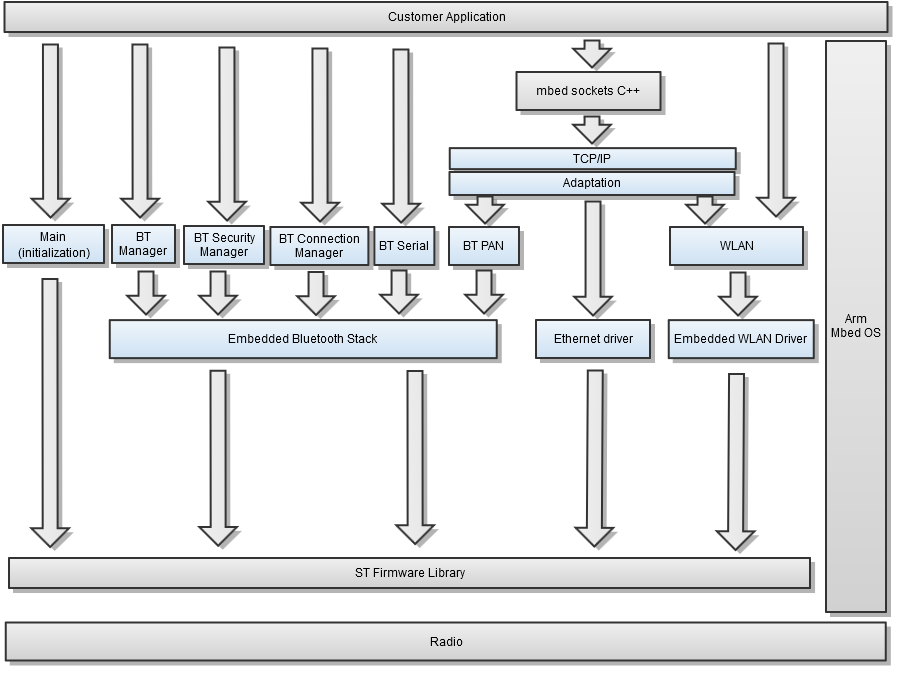
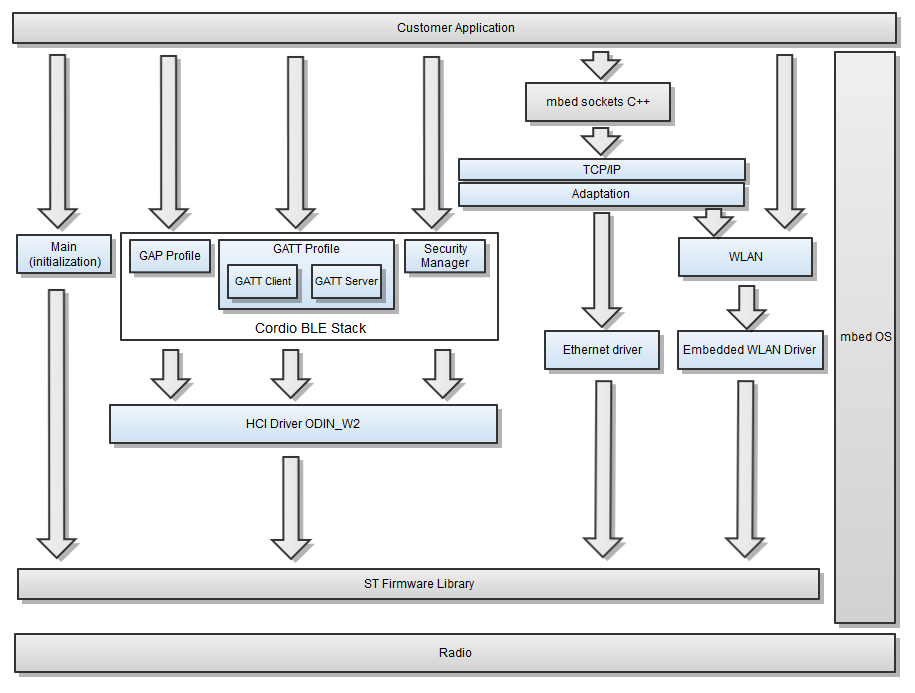
updating docs according to BLE cordio and restructuring flash memory configuraiton

Changed region(s): [[0.0, 0.0, 0.9857, 0.9882]]

diff --git a/README.md b/README.md
@@ -1,23 +1,27 @@
 # u-blox ODIN-W2 Wi-Fi and Bluetooth drivers
 
-This is a pre-compiled binary module including u-blox Wi-Fi and Bluetooth drivers for [Arm Mbed OS](https://mbed.com).
+This is a pre-compiled binary module including u-blox Wi-Fi and BLE hci drivers for [Arm Mbed OS](https://mbed.com).
 
 The binary is intended for and can only be run on a u-blox ODIN-W2 module.
 
 Please note that this document is not intended as a complete system description. It is intended to be an overview and for details the header files must be used.
 
-There are two levels of the API, one C++ API and one lower level C API. It is highly recommended to use the C++ interface as this is the intended way Arm Mbed should be used. The C API is provided to be able to support the Mbed C++ classes and might be used by the application until such classes exist. Currently there is support for the Wi-Fi station via the OdinWiFiInterface class.
+There are two levels of the API, one C++ API and one lower level C API for WIFI. It is highly recommended to use the C++ interface as this is the intended way Arm Mbed should be used. The C API is provided to be able to support the Mbed C++ classes and might be used by the application until such classes exist. Currently there is support for the Wi-Fi station and access point  via the OdinWiFiInterface class.
 
 If the C API is used please note that this interface is subject to change and it is highly recommended to migrate to the C++ API once it is available. The C API is considered as experimental.
+
+Cordio BLE stack by Arm is supported and it provides C++ API. For details see [Cordio BLE](https://os.mbed.com/docs/latest/apis/ble.html).
 
 ## Related documents
 [https://www.u-blox.com/sites/default/files/ODIN-W2_DataSheet_%28UBX-14039949%29.pdf](https://www.u-blox.com/sites/default/files/ODIN-W2_DataSheet_%28UBX-14039949%29.pdf) - ODIN-W2 Data Sheet  
 
 ## Overview
 
-The ODIN-W2 module supports a variety of interfaces such as WLAN, Classic Bluetooth, Bluetooth low energy, RMII (Ethernet), SPI, UART, CAN, I2C, GPIOs, Analog input pins, and JTAG/SWD. Many of the interfaces and IO pins are multiplexed. For details see the [ODIN-W2 Data Sheet](https://www.u-blox.com/sites/default/files/ODIN-W2_DataSheet_%28UBX-14039949%29.pdf).
+The ODIN-W2 module supports a variety of interfaces such as WLAN, BLE(Bluetooth low energy), RMII (Ethernet), SPI, UART, CAN, I2C, GPIOs, Analog input pins, and JTAG/SWD. Many of the interfaces and IO pins are multiplexed. For details see the [ODIN-W2 Data Sheet](https://www.u-blox.com/sites/default/files/ODIN-W2_DataSheet_%28UBX-14039949%29.pdf).
 
-The embedded Bluetooth Stack and the embedded WLAN driver are optimized for small embedded industrial systems with high requirements on performance and robustness. The Bluetooth stack contains the classic SPP, DUN, PAN, DID and GAP profiles and the low energy GATT, GAP and u-blox Serial Port Service. The Wi-Fi driver contains station as well as access point. A supplicant is also included.
+The embedded WLAN driver is optimized for small embedded industrial systems with high requirements on performance and robustness. The Wi-Fi driver contains station as well as access point. A supplicant is also included.
+
+Cordio BLE stack contains GAP profiles, GATT profiles, and security manager services. GATT profile allows both client and server role for device. A list of supported GATT services is provided [here](https://os.mbed.com/teams/Bluetooth-Low-Energy/wiki/BLE-services-supported-on-mbed).
 
 The drivers for the C API are not thread safe. This means that all calls to and from the drivers must be serialized to ensure that there are never more than one concurrent entry point called in the drivers. This can be achieved by posting function calls to the driver thread with 'cbMAIN_getEventQueue()->call()'. It's also possible to use the driver lock 'cbMAIN_driverLock()' to ensure mutual exclusion before any call to the drivers. 'cbMAIN_driverUnlock()' must be called after the function to release the driver thread lock.
 Notes:
@@ -36,21 +40,8 @@ The exported components and corresponding files in the u-blox ODIN-W2 driver is 
 - cb\_watchdog.h - Hardware watchdog
 - cb\_otp.h - Read One-Time Programmable(OTP) parameters like MAC addresses. 
 
-### Bluetooth
-- **BT Manager**(cb\_bt\_man.h) - Bluetooth Generic Access Profile(GAP) functionality like inquiry, device name etc
-- **BT Connection Manager**(cb\_bt\_conn\_man.h) - Setting up and tearing down Bluetooth SPP/PAN/DUN connections
-- **BT Security Manager**(cb\_bt\_sec\_man.h) - Security manager that handles pairing and link keys.
-- **BT PAN**(cb\_bt\_pan.h) - Personal Area Network Profile(PAN) for sending Ethernet frames over Classic Bluetooth
-- **BT Serial**(cb\_bt\_serial.h) - Serial Port Profile(SPP) based on RFCOMM for sending and receiving transparent data. Also supports Dial-Up Network(DUN).
-- **BT Serial low energy**(cb\_bt\_serial\_le.h) - u-blox Serial Port Service for sending and receiving transparent data.
-- cb\_gatt.h - Common GATT for low energy functionality
-- cb\_gatt\_client.h - GATT client functionality, typically used by a central
-- cb\_gatt\_server.h - GATT server functionality, typically used by a peripheral
-- cb\_gatt\_utils.h - Utility functions for GATT
-- bt\_types.h - Common Bluetooth types that are used by several components
-- cb\_bt\_utils.h - Utility functions like comparing Bluetooth addresses
-
-For more info about the Bluetooth components see [documentation/readme_bluetooth.md](documentation/readme_bluetooth.md).
+### Bluetooth Low Energy
+For more info about the Bluetooth Low Energy components see https://os.mbed.com/teams/Bluetooth-Low-Energy/.
 
 ### Wi-Fi
 - **OdinWiFiInterface.h** - C++ interface
@@ -72,19 +63,19 @@ The IP stack used is provided by mbed-os and is accessible from the socket API.
 
 
 ### mbed OS
-This is the Arm Mbed OS framework and is a collection of OS-related modules and includes the control of GPIOs, UART, SPI, I2C, security etc. A thorough description can be found [here](https://docs.mbed.com/docs/mbed-os-handbook/en/5.2/)
+This is the Arm Mbed OS framework and is a collection of OS-related modules and includes the control of GPIOs, UART, SPI, I2C, security etc. A thorough description can be found [here](https://os.mbed.com/docs/latest/introduction/index.html)
 
 ### ST firmware library
 A subset of the functionality provided by the ST firmware library is accessible from Mbed OS. If more control is needed it's also possible to access the drivers directly via the mbed-os lower layers. Note that it must be used with care since any misuse might break the driver and/or Mbed OS.
 
 ## Qualification and approvals
-The module fulfills the ETSI regulations and modular approved for FCC and IC. It is also Bluetooth qualified as a Bluetooth controller subsystem. The embedded Bluetooth stack is pre-qualified as a Bluetooth host subsystem. This allows for customer specific Bluetooth applications developed directly for the STM32F439 microcontroller. For more info see Qualification and approvals chapter in [ODIN-W2 Data Sheet](https://www.u-blox.com/sites/default/files/ODIN-W2_DataSheet_%28UBX-14039949%29.pdf).
+Arm Cordio stack is qualified. For more details see [here](https://launchstudio.bluetooth.com/ListingDetails/126).
 
 ## Flash memory configuration
 
 ![](documentation/mbed_odin_w2_flash.png)
 
-The flash memory configuration above shows how the utilization can look like when two 128k sectors are used as non-volatile storage of Bluetooth link keys. How much space the Arm Mbed OS and ODIN-W2 drivers occupy is very dependent on how much functionality is used. Typically around 1MByte when only the Wi-Fi driver is being used.
+How much space the Arm Mbed OS and ODIN-W2 drivers occupy is very dependent on how much functionality is used. Typically around 1.5MByte when Wi-Fi and BLE drivers are being used. 
 
 No boot, starting at address 0, is used in this flash configuration as this is typically overwritten when using the ST-LINK mass storage flashing on the EVK-ODIN-W2.
 
@@ -108,8 +99,8 @@ Both the Bluetooth stack and the Wi-Fi driver use parts of the hardware. The tab
 | System tick interrupt | ODIN-W2 timers/HAL | The system tick is used by the ODIN-W2 internal timer component and also by the ST firmware lib.                   |
 | TIM5                  | us_ticker          | Timer used by Mbed OS                                                                     |
 | TIM3                  | ODIN-W2            | Used by the Bluetooth HCI UART                                                                                     |
-| DMA5, DMA6            | ODIN-W2            | DMA stream 5 and 6 are used by the Bluetooth HCI UART                                                              |
-| USART2                | ODIN-W2            | Used by the Bluetooth HCI UART                                                                                     |
+| DMA5, DMA6            | ODIN-W2            | DMA stream 5 and 6 are reserved to be used by BLE HCI UART                                                              |
+| USART6                | ODIN-W2            | Used by the Bluetooth HCI UART                                                                                     |
 | IWDG                  | ODIN-W2            | The independent watchdog is setup using cbWD. Disabled by default. Can be emitted by not initializing the component. |
 | Ethernet              | ODIN-W2            | Handled by Mbed OS                                                                                                 |
 | SDIO                  | ODIN-W2            | Used by the Wi-Fi driver                                                                                           |
